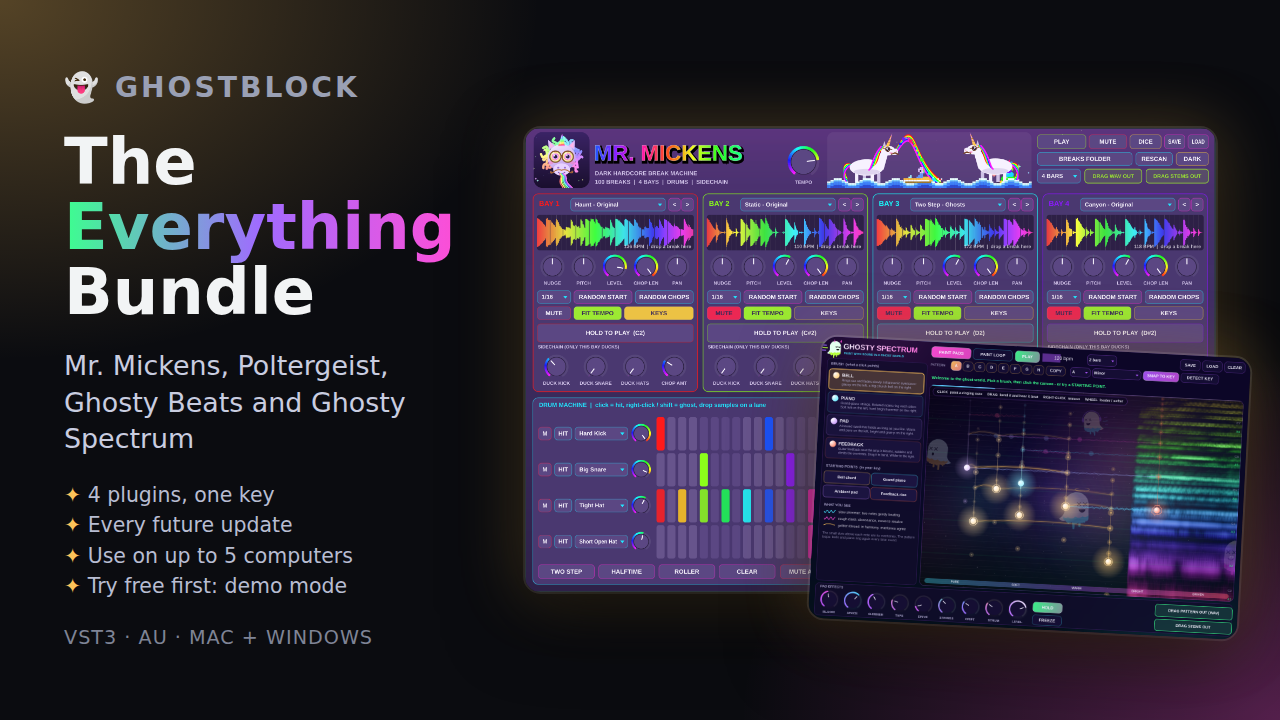
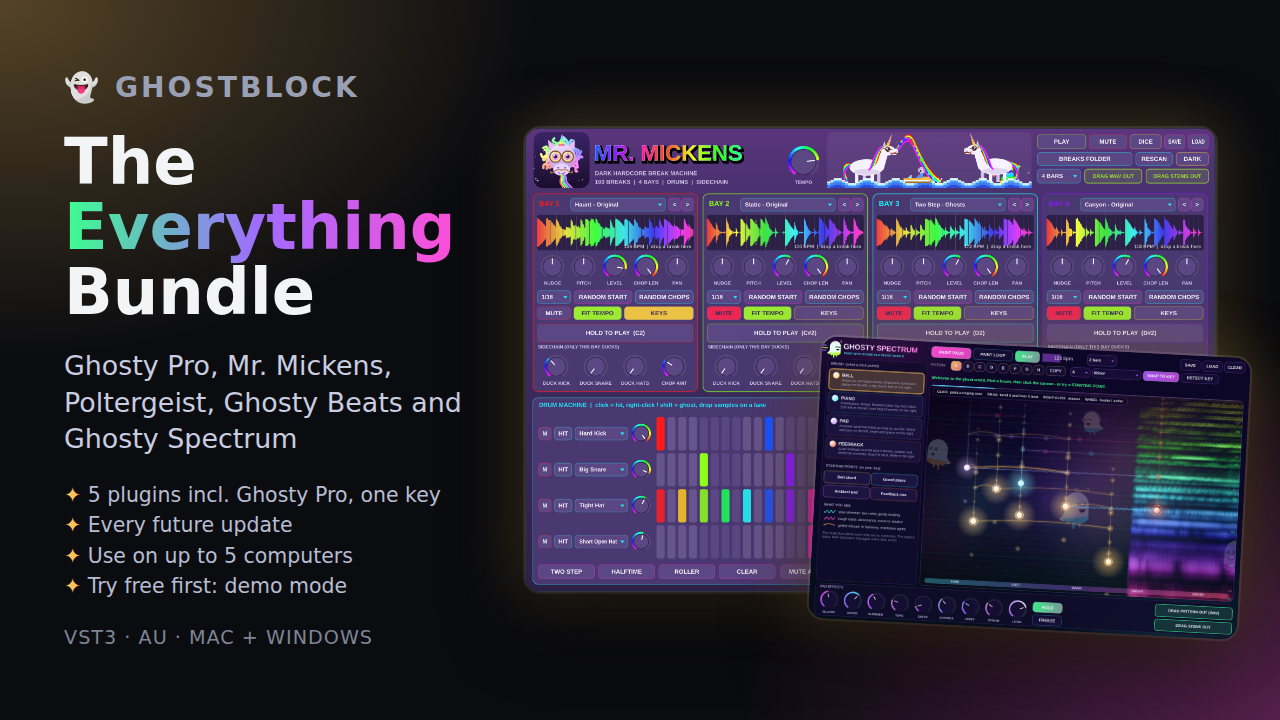
Store: Ghosty Pro ($29), bundle $59 incl. Ghosty Pro; Ghosty Pro + bundle images
Claude-Session: https://claude.ai/code/session_015RuhnSu54L1gdPnfNTH7Jc

Changed region(s): [[0.0312, 0.4889, 0.375, 0.6417], [0.125, 0.6722, 0.3438, 0.7028], [0.0625, 0.6722, 0.0938, 0.7028]]

diff --git a/docs/store/index.html b/docs/store/index.html
@@ -53,15 +53,29 @@ a { color: var(--ecto); }
   <div class="chips"><span>VST3 · AU · Standalone</span><span>Mac + Windows</span><span>One-time price, no subscription</span><span>Use on up to 5 computers</span><span>Try before you buy</span></div>
 
   <div class="bundle" style="background:var(--card);border-color:var(--line)">
-    <div><h2>Try them all free</h2><p>One installer with all four plugins. They run in demo mode until you enter a license key.</p></div>
+    <div><h2>Try them all free</h2><p>One installer with all five plugins. They run in demo mode until you enter a license key.</p></div>
     <div style="display:flex;gap:10px;flex-wrap:wrap"><a class="btn alt" href="../download/GhostBlock-Plugins-Mac.pkg">Download for Mac</a><a class="btn alt" href="../download/GhostBlock-Plugins-Windows-Setup.exe">Download for Windows</a></div>
   </div>
   <div class="bundle">
-    <div><h2>Everything bundle</h2><p>Mr. Mickens + Poltergeist + Ghosty Beats + Ghosty Spectrum, plus every update.</p></div>
-    <div style="display:flex;gap:16px;align-items:center;flex-wrap:wrap"><div class="price">$49<s>$69</s></div><a class="btn" data-product="bundle" href="#">Get the bundle</a></div>
+    <div><h2>Everything bundle</h2><p>Ghosty Pro + Mr. Mickens + Poltergeist + Ghosty Beats + Ghosty Spectrum, plus every update.</p></div>
+    <div style="display:flex;gap:16px;align-items:center;flex-wrap:wrap"><div class="price">$59<s>$98</s></div><a class="btn" data-product="bundle" href="#">Get the bundle</a></div>
   </div>
 
   <div class="grid">
+    <div class="card">
+      <img src="ghostypro.png" alt="Ghosty Pro synth">
+      <div class="body">
+        <div class="tag">WAVETABLE SYNTH + GHOST FX STUDIO</div>
+        <h3>👻 Ghosty Pro</h3>
+        <ul>
+          <li>245 polished presets, including about 60 basses</li>
+          <li>8-voice unison supersaws, 19 wavetables, drop any WAV in as a wavetable</li>
+          <li>8-slot mod matrix, 10 filters, FM / sync / ring</li>
+          <li>15 built-in FX: spectral EQ, pattern gate, stutter pads, analog saturation, tape echo, crystal, shimmer, OTT</li>
+        </ul>
+        <div class="row"><div class="price">$29</div><a class="btn" data-product="ghostypro" href="#">Buy</a></div>
+      </div>
+    </div>
     <div class="card">
       <img src="mickens.jpg" alt="Mr. Mickens drum and bass break machine">
       <div class="body">
@@ -128,7 +142,7 @@ a { color: var(--ecto); }
 </div>
 <script>
 // Gumroad product links: fill these in once the products exist on Gumroad (leave empty = "Coming soon")
-const GUMROAD = { bundle: 'https://brandonix06.gumroad.com/l/umszza', mickens: 'https://brandonix06.gumroad.com/l/aimjtm', poltergeist: 'https://brandonix06.gumroad.com/l/tqlba', beatsSpectrum: 'https://brandonix06.gumroad.com/l/yausj' };
+const GUMROAD = { ghostypro: 'https://brandonix06.gumroad.com/l/krerj', bundle: 'https://brandonix06.gumroad.com/l/umszza', mickens: 'https://brandonix06.gumroad.com/l/aimjtm', poltergeist: 'https://brandonix06.gumroad.com/l/tqlba', beatsSpectrum: 'https://brandonix06.gumroad.com/l/yausj' };
 document.querySelectorAll('[data-product]').forEach(a => {
   const url = GUMROAD[a.dataset.product];
   if (url) { a.href = url; a.target = '_blank'; a.rel = 'noopener'; }
